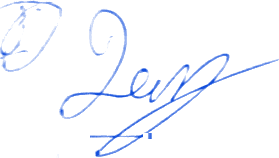
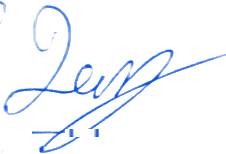
Update brand to EricNem, fix signature by removing left circled part, and make glowing SVG celestial moon prominent in dark mode

diff --git a/components/BackgroundBlob.tsx b/components/BackgroundBlob.tsx
@@ -19,11 +19,49 @@ export default function BackgroundBlob() {
 
   return (
     <>
-      {/* Celestial Moon in Dark Mode (from May-WinD inspiration) */}
+      {/* Celestial Glowing Moon in Dark Mode */}
       <div className="sky-moon-element" aria-hidden="true">
-        <div className="moon-body"></div>
-        <div className="moon-glow"></div>
-        <div className="moon-halo"></div>
+        <svg
+          viewBox="0 0 100 100"
+          className="moon-svg"
+          xmlns="http://www.w3.org/2000/svg"
+        >
+          <defs>
+            <radialGradient id="moonGlow" cx="50%" cy="50%" r="50%">
+              <stop offset="0%" stopColor="#cce5ff" stopOpacity="0.85" />
+              <stop offset="45%" stopColor="#70b5ff" stopOpacity="0.4" />
+              <stop offset="100%" stopColor="#0072ff" stopOpacity="0" />
+            </radialGradient>
+            <linearGradient id="moonGradient" x1="0%" y1="0%" x2="100%" y2="100%">
+              <stop offset="0%" stopColor="#ffffff" />
+              <stop offset="50%" stopColor="#e2f0ff" />
+              <stop offset="100%" stopColor="#a3d0ff" />
+            </linearGradient>
+            <filter id="moonShadow" x="-30%" y="-30%" width="160%" height="160%">
+              <feGaussianBlur in="SourceGraphic" stdDeviation="5" result="blur" />
+              <feMerge>
+                <feMergeNode in="blur" />
+                <feMergeNode in="SourceGraphic" />
+              </feMerge>
+            </filter>
+          </defs>
+
+          {/* Atmospheric Halo */}
+          <circle cx="50" cy="50" r="48" fill="url(#moonGlow)" />
+
+          {/* Crescent Moon Body */}
+          <path
+            d="M 68 14 A 40 40 0 1 0 68 86 A 32 32 0 0 1 68 14 Z"
+            fill="url(#moonGradient)"
+            filter="url(#moonShadow)"
+          />
+
+          {/* Subtle Lunar Surface Craters */}
+          <circle cx="40" cy="38" r="3.5" fill="#75aadb" opacity="0.35" />
+          <circle cx="32" cy="52" r="5" fill="#75aadb" opacity="0.3" />
+          <circle cx="48" cy="65" r="3" fill="#75aadb" opacity="0.35" />
+          <circle cx="28" cy="36" r="2.5" fill="#75aadb" opacity="0.25" />
+        </svg>
       </div>
 
       {/* Atmospheric Night Stars */}

diff --git a/app/globals.css b/app/globals.css
@@ -3121,56 +3121,33 @@ body {
    ======================================================== */
 .sky-moon-element {
   position: fixed;
-  top: 90px;
-  right: 8%;
-  width: 90px;
-  height: 90px;
+  top: 95px;
+  right: 7%;
+  width: 105px;
+  height: 105px;
   pointer-events: none;
-  z-index: -2;
+  z-index: 1; /* Clearly visible in Dark Mode */
   opacity: 0;
   transform: scale(0.85);
-  transition: opacity 1.2s ease, transform 1.2s ease;
+  transition: opacity 0.8s ease, transform 0.8s ease;
 }
 
 [data-theme="dark"] .sky-moon-element {
-  opacity: 0.95;
+  opacity: 1;
   transform: scale(1);
+  animation: moonFloat 6s ease-in-out infinite alternate;
 }
 
-.moon-body {
-  width: 75px;
-  height: 75px;
-  border-radius: 50%;
-  box-shadow: 18px 10px 0 0 #f4f6fc;
-  filter: drop-shadow(0 0 25px rgba(200, 230, 255, 0.85));
+@keyframes moonFloat {
+  0% { transform: translateY(0) scale(1); }
+  100% { transform: translateY(-7px) scale(1.03); }
 }
 
-.moon-glow {
-  position: absolute;
-  top: 5px;
-  left: 15px;
-  width: 75px;
-  height: 75px;
-  border-radius: 50%;
-  background: radial-gradient(circle, rgba(180, 220, 255, 0.35) 0%, transparent 70%);
-  animation: moonGlowPulse 5s ease-in-out infinite alternate;
-}
-
-.moon-halo {
-  position: absolute;
-  top: -20px;
-  left: -10px;
-  width: 120px;
-  height: 120px;
-  border-radius: 50%;
-  background: radial-gradient(circle, rgba(0, 198, 255, 0.15) 0%, transparent 65%);
-  filter: blur(15px);
-  pointer-events: none;
-}
-
-@keyframes moonGlowPulse {
-  0% { opacity: 0.5; transform: scale(0.95); }
-  100% { opacity: 1; transform: scale(1.15); }
+.moon-svg {
+  width: 100%;
+  height: 100%;
+  display: block;
+  overflow: visible;
 }
 
 /* Atmospheric Night Stars */
@@ -3180,7 +3157,7 @@ body {
   width: 100vw;
   height: 100vh;
   pointer-events: none;
-  z-index: -2;
+  z-index: 0; /* Clearly visible in Dark Mode */
   opacity: 0;
   transition: opacity 1.5s ease;
 }

diff --git a/components/Footer.tsx b/components/Footer.tsx
@@ -8,7 +8,7 @@ export default function Footer() {
       <div className="footer-container">
         <div className="footer-left">
           <div className="footer-brand">
-            <span className="logo">EricN</span>
+            <span className="logo">EricNem</span>
             <p className="footer-tagline">
               Xây dựng kiến trúc hệ thống vững chắc, hiệu suất tối đa và mở rộng linh hoạt cho tương lai.
             </p>
@@ -75,7 +75,7 @@ export default function Footer() {
       </div>
 
       <div className="footer-bottom">
-        <p>&copy; {new Date().getFullYear()} Nguyen Hoang Nam (EricN). All rights reserved.</p>
+        <p>&copy; {new Date().getFullYear()} Nguyen Hoang Nam (EricNem). All rights reserved.</p>
         <p className="footer-tech-credit">
           Powered by <strong>Next.js 14 App Router</strong> &bull; TypeScript &bull; Custom Animations
         </p>

diff --git a/app/layout.tsx b/app/layout.tsx
@@ -9,8 +9,8 @@ const theSignature = localFont({
 });
 
 export const metadata: Metadata = {
-  title: "EricN - Backend Developer",
-  description: "Portfolio of Nguyen Hoang Nam - Backend Developer",
+  title: "EricNem - Backend Developer",
+  description: "Portfolio of Nguyen Hoang Nam (EricNem) - Backend Developer",
 };
 
 export default function RootLayout({

diff --git a/components/Navbar.tsx b/components/Navbar.tsx
@@ -47,7 +47,7 @@ export default function Navbar() {
     <header className={`navbar-header-sticky ${isScrolled ? "scrolled" : ""}`}>
       <nav className="navbar">
         <Link href="/" className="logo" onClick={closeMenu}>
-          EricN
+          EricNem
         </Link>
 
         <ul className={`nav-links ${isMenuOpen ? "active" : ""}`}>
